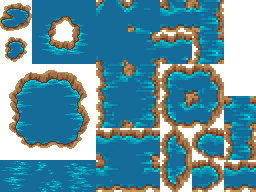
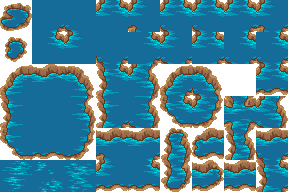
Better terrain tiling + better water/river spritesheets

diff --git a/Narivia.Gui/SpriteEffects/TerrainSpriteSheetEffect.cs b/Narivia.Gui/SpriteEffects/TerrainSpriteSheetEffect.cs
@@ -60,40 +60,69 @@ namespace Narivia.Gui.SpriteEffects
             {
                 CurrentFrame = new Point2D(7, 3); // +
             }
-            else if (tilesN && tilesW && tilesS && tilesE)
-            {
-                if (!tilesNW)
-                {
-                    CurrentFrame = new Point2D(2, 1); // _|
-                }
-                else if (!tilesNE)
-                {
-                    CurrentFrame = new Point2D(1, 1); // |_
-                }
-                else if (!tilesSW)
-                {
-                    CurrentFrame = new Point2D(2, 0); // /
-                }
-                else if (!tilesSE)
-                {
-                    CurrentFrame = new Point2D(1, 0); // 7
-                }
-            }
             else if (tilesN && tilesW && tilesS && tilesE && !tilesNW && !tilesNE && tilesSW && tilesSE)
             {
-                CurrentFrame = new Point2D(3, 0); // _|_
+                CurrentFrame = new Point2D(3, 0);
             }
             else if (tilesN && tilesW && tilesS && tilesE && !tilesNW && tilesNE && !tilesSW && tilesSE)
             {
-                CurrentFrame = new Point2D(4, 0); // -|
+                CurrentFrame = new Point2D(4, 0);
             }
             else if (tilesN && tilesW && tilesS && tilesE && tilesNW && tilesNE && !tilesSW && !tilesSE)
             {
-                CurrentFrame = new Point2D(3, 1); // T
+                CurrentFrame = new Point2D(3, 1);
             }
             else if (tilesN && tilesW && tilesS && tilesE && tilesNW && !tilesNE && tilesSW && !tilesSE)
             {
-                CurrentFrame = new Point2D(4, 1); // |-
+                CurrentFrame = new Point2D(4, 1);
+            }
+            else if (tilesN && tilesW && tilesS && tilesE && !tilesNW && !tilesNE && !tilesSW && tilesSE)
+            {
+                CurrentFrame = new Point2D(5, 0);
+            }
+            else if (tilesN && tilesW && tilesS && tilesE && !tilesNW && !tilesNE && !tilesSW && tilesSE)
+            {
+                CurrentFrame = new Point2D(6, 0);
+            }
+            else if (tilesN && tilesW && tilesS && tilesE && !tilesNW && tilesNE && !tilesSW && !tilesSE)
+            {
+                CurrentFrame = new Point2D(5, 1);
+            }
+            else if (tilesN && tilesW && tilesS && tilesE && tilesNW && !tilesNE && !tilesSW && !tilesSE)
+            {
+                CurrentFrame = new Point2D(6, 1);
+            }
+            else if (tilesN && tilesW && tilesS && tilesE && !tilesNW && !tilesNE && tilesSW && !tilesSE)
+            {
+                CurrentFrame = new Point2D(7, 0);
+            }
+            else if (tilesN && tilesW && tilesS && tilesE && !tilesNW && tilesNE && !tilesSW && !tilesSE)
+            {
+                CurrentFrame = new Point2D(8, 0);
+            }
+            else if (tilesN && tilesW && tilesS && tilesE && tilesNW && !tilesNE && !tilesSW && !tilesSE)
+            {
+                CurrentFrame = new Point2D(7, 1);
+            }
+            else if (tilesN && tilesW && tilesS && tilesE && tilesNW && !tilesNE && !tilesSW && !tilesSE)
+            {
+                CurrentFrame = new Point2D(8, 1);
+            }
+            else if (tilesN && tilesW && !tilesS && tilesE && !tilesNW && !tilesNE)
+            {
+                CurrentFrame = new Point2D(8, 2); // _|_
+            }
+            else if (tilesN && tilesW && tilesS && !tilesE && !tilesNW && !tilesSW)
+            {
+                CurrentFrame = new Point2D(8, 3); // -|
+            }
+            else if (!tilesN && tilesW && tilesS && tilesE && !tilesSW && !tilesSE)
+            {
+                CurrentFrame = new Point2D(8, 4); // T
+            }
+            else if (tilesN && !tilesW && tilesS && tilesE && !tilesNE && !tilesSE)
+            {
+                CurrentFrame = new Point2D(8, 5); // |-
             }
             else if (tilesN && !tilesW && tilesS && tilesE && !tilesNE && tilesSE)
             {
@@ -126,6 +155,22 @@ namespace Narivia.Gui.SpriteEffects
             else if (tilesN && tilesW && !tilesS && tilesE && tilesNW && !tilesNE)
             {
                 CurrentFrame = new Point2D(4, 5);
+            }
+            else if (!tilesN && !tilesW && tilesS && tilesE && !tilesNW && !tilesSE)
+            {
+                CurrentFrame = new Point2D(5, 2);
+            }
+            else if (!tilesN && tilesW && tilesS && !tilesE && !tilesNE && !tilesSW)
+            {
+                CurrentFrame = new Point2D(6, 2);
+            }
+            else if (tilesN && !tilesW && !tilesS && tilesE && !tilesNE && !tilesSW)
+            {
+                CurrentFrame = new Point2D(5, 3);
+            }
+            else if (tilesN && tilesW && !tilesS && !tilesE && !tilesNW && !tilesSE)
+            {
+                CurrentFrame = new Point2D(6, 3);
             }
             else if (!tilesN && !tilesW && !tilesS && !tilesE)
             {
@@ -186,6 +231,25 @@ namespace Narivia.Gui.SpriteEffects
             else if (tilesN && tilesW && tilesS && !tilesE) // RightCorner
             {
                 CurrentFrame = new Point2D(2, 3);
+            }
+            else if (tilesN && tilesW && tilesS && tilesE)
+            {
+                if (!tilesNW)
+                {
+                    CurrentFrame = new Point2D(2, 1); // _|
+                }
+                else if (!tilesNE)
+                {
+                    CurrentFrame = new Point2D(1, 1); // |_
+                }
+                else if (!tilesSW)
+                {
+                    CurrentFrame = new Point2D(2, 0); // /
+                }
+                else if (!tilesSE)
+                {
+                    CurrentFrame = new Point2D(1, 0); // 7
+                }
             }
         }
     }

diff --git a/Narivia.Gui/SpriteEffects/RiverTilingEffect.cs b/Narivia.Gui/SpriteEffects/RiverTilingEffect.cs
@@ -99,25 +99,25 @@ namespace Narivia.Gui.SpriteEffects
                     CurrentFrame = new Point2D(4, 5);
                 }
             }
-            else if (riverN && riverW && riverS && riverE) // +
+            else if (riverN && riverW && riverS && riverE)
             {
-                CurrentFrame = new Point2D(0, 2);
+                CurrentFrame = new Point2D(0, 2); // +
             }
-            else if (riverN && riverW && !riverS && riverE) // _|_
+            else if (riverN && riverW && !riverS && riverE)
             {
-                CurrentFrame = new Point2D(0, 3);
+                CurrentFrame = new Point2D(0, 3); // _|_
             }
-            else if (riverN && !riverW && riverS && riverE) // |-
+            else if (riverN && riverW && riverS && !riverE)
             {
-                CurrentFrame = new Point2D(1, 3);
+                CurrentFrame = new Point2D(1, 3); // -|
             }
-            else if (riverN && riverW && riverS && !riverE) // -|
+            else if (!riverN && riverW && riverS && riverE)
             {
-                CurrentFrame = new Point2D(0, 4);
+                CurrentFrame = new Point2D(0, 4); // T
             }
-            else if (!riverN && riverW && riverS && riverE) // T
+            else if (riverN && !riverW && riverS && riverE)
             {
-                CurrentFrame = new Point2D(1, 4);
+                CurrentFrame = new Point2D(1, 4); // |-
             }
             else if (riverN && !riverW && riverS && !riverE ||
                      ((waterN || waterS) && !riverW && !riverE)) // ||
